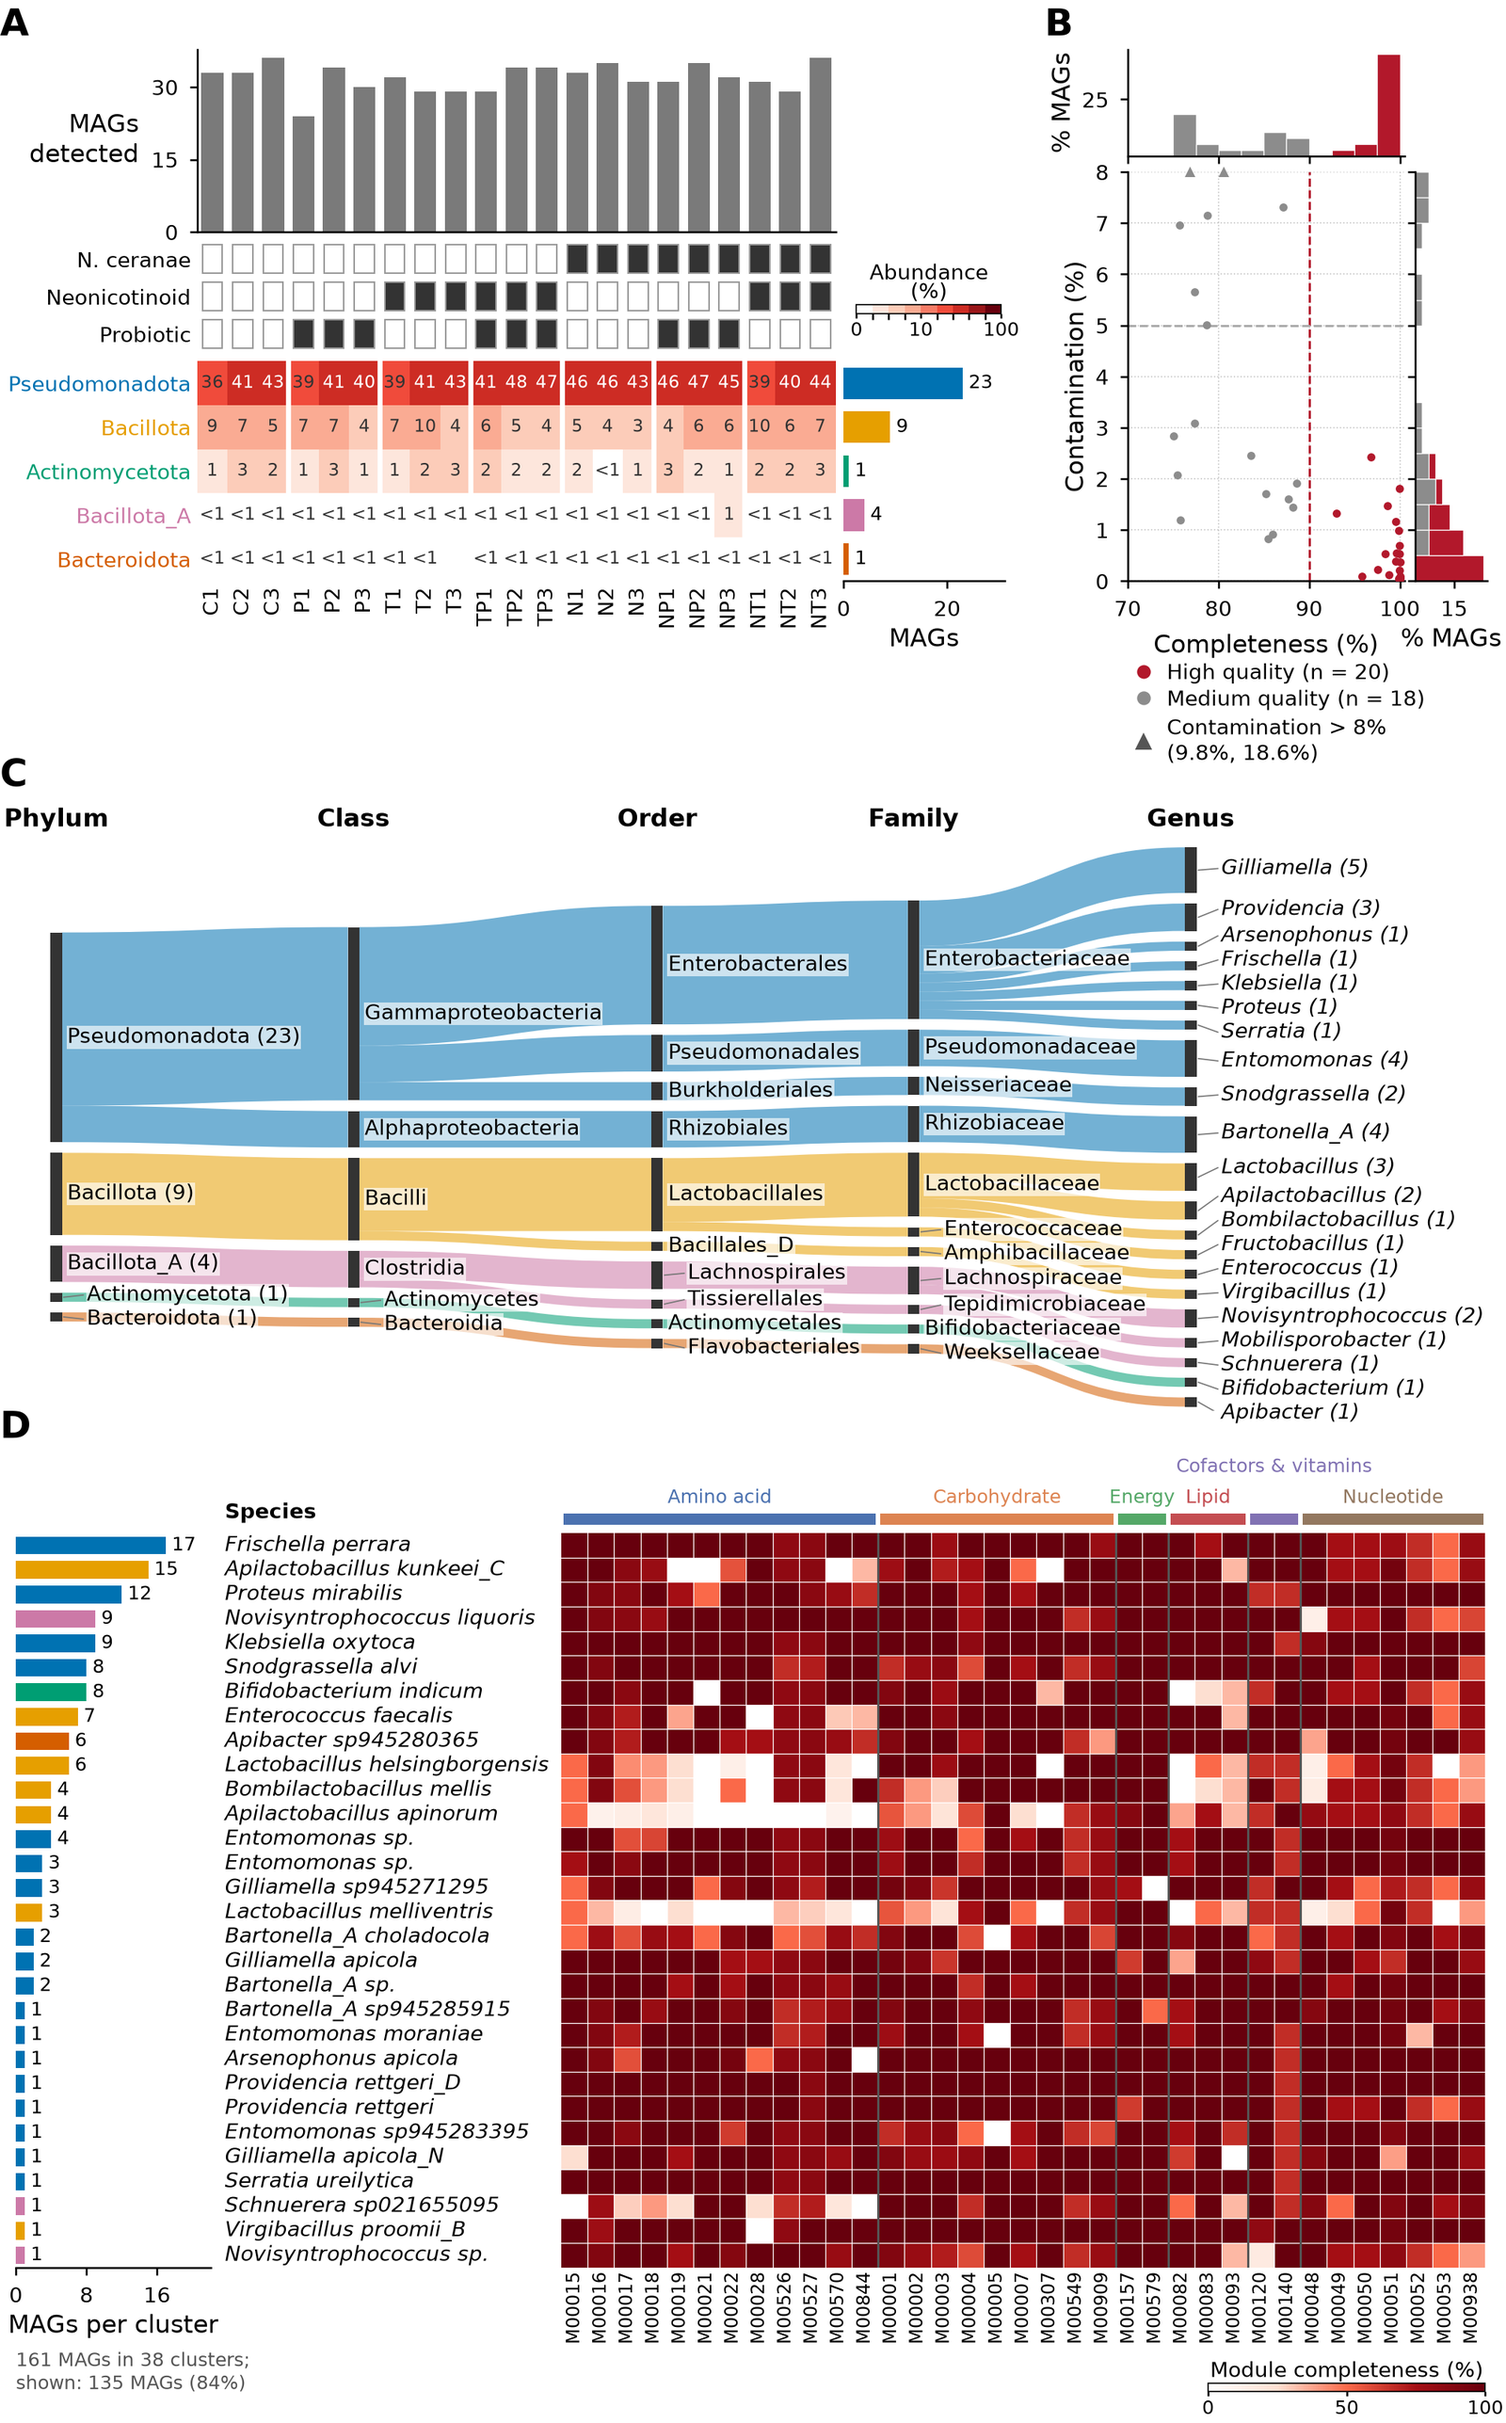
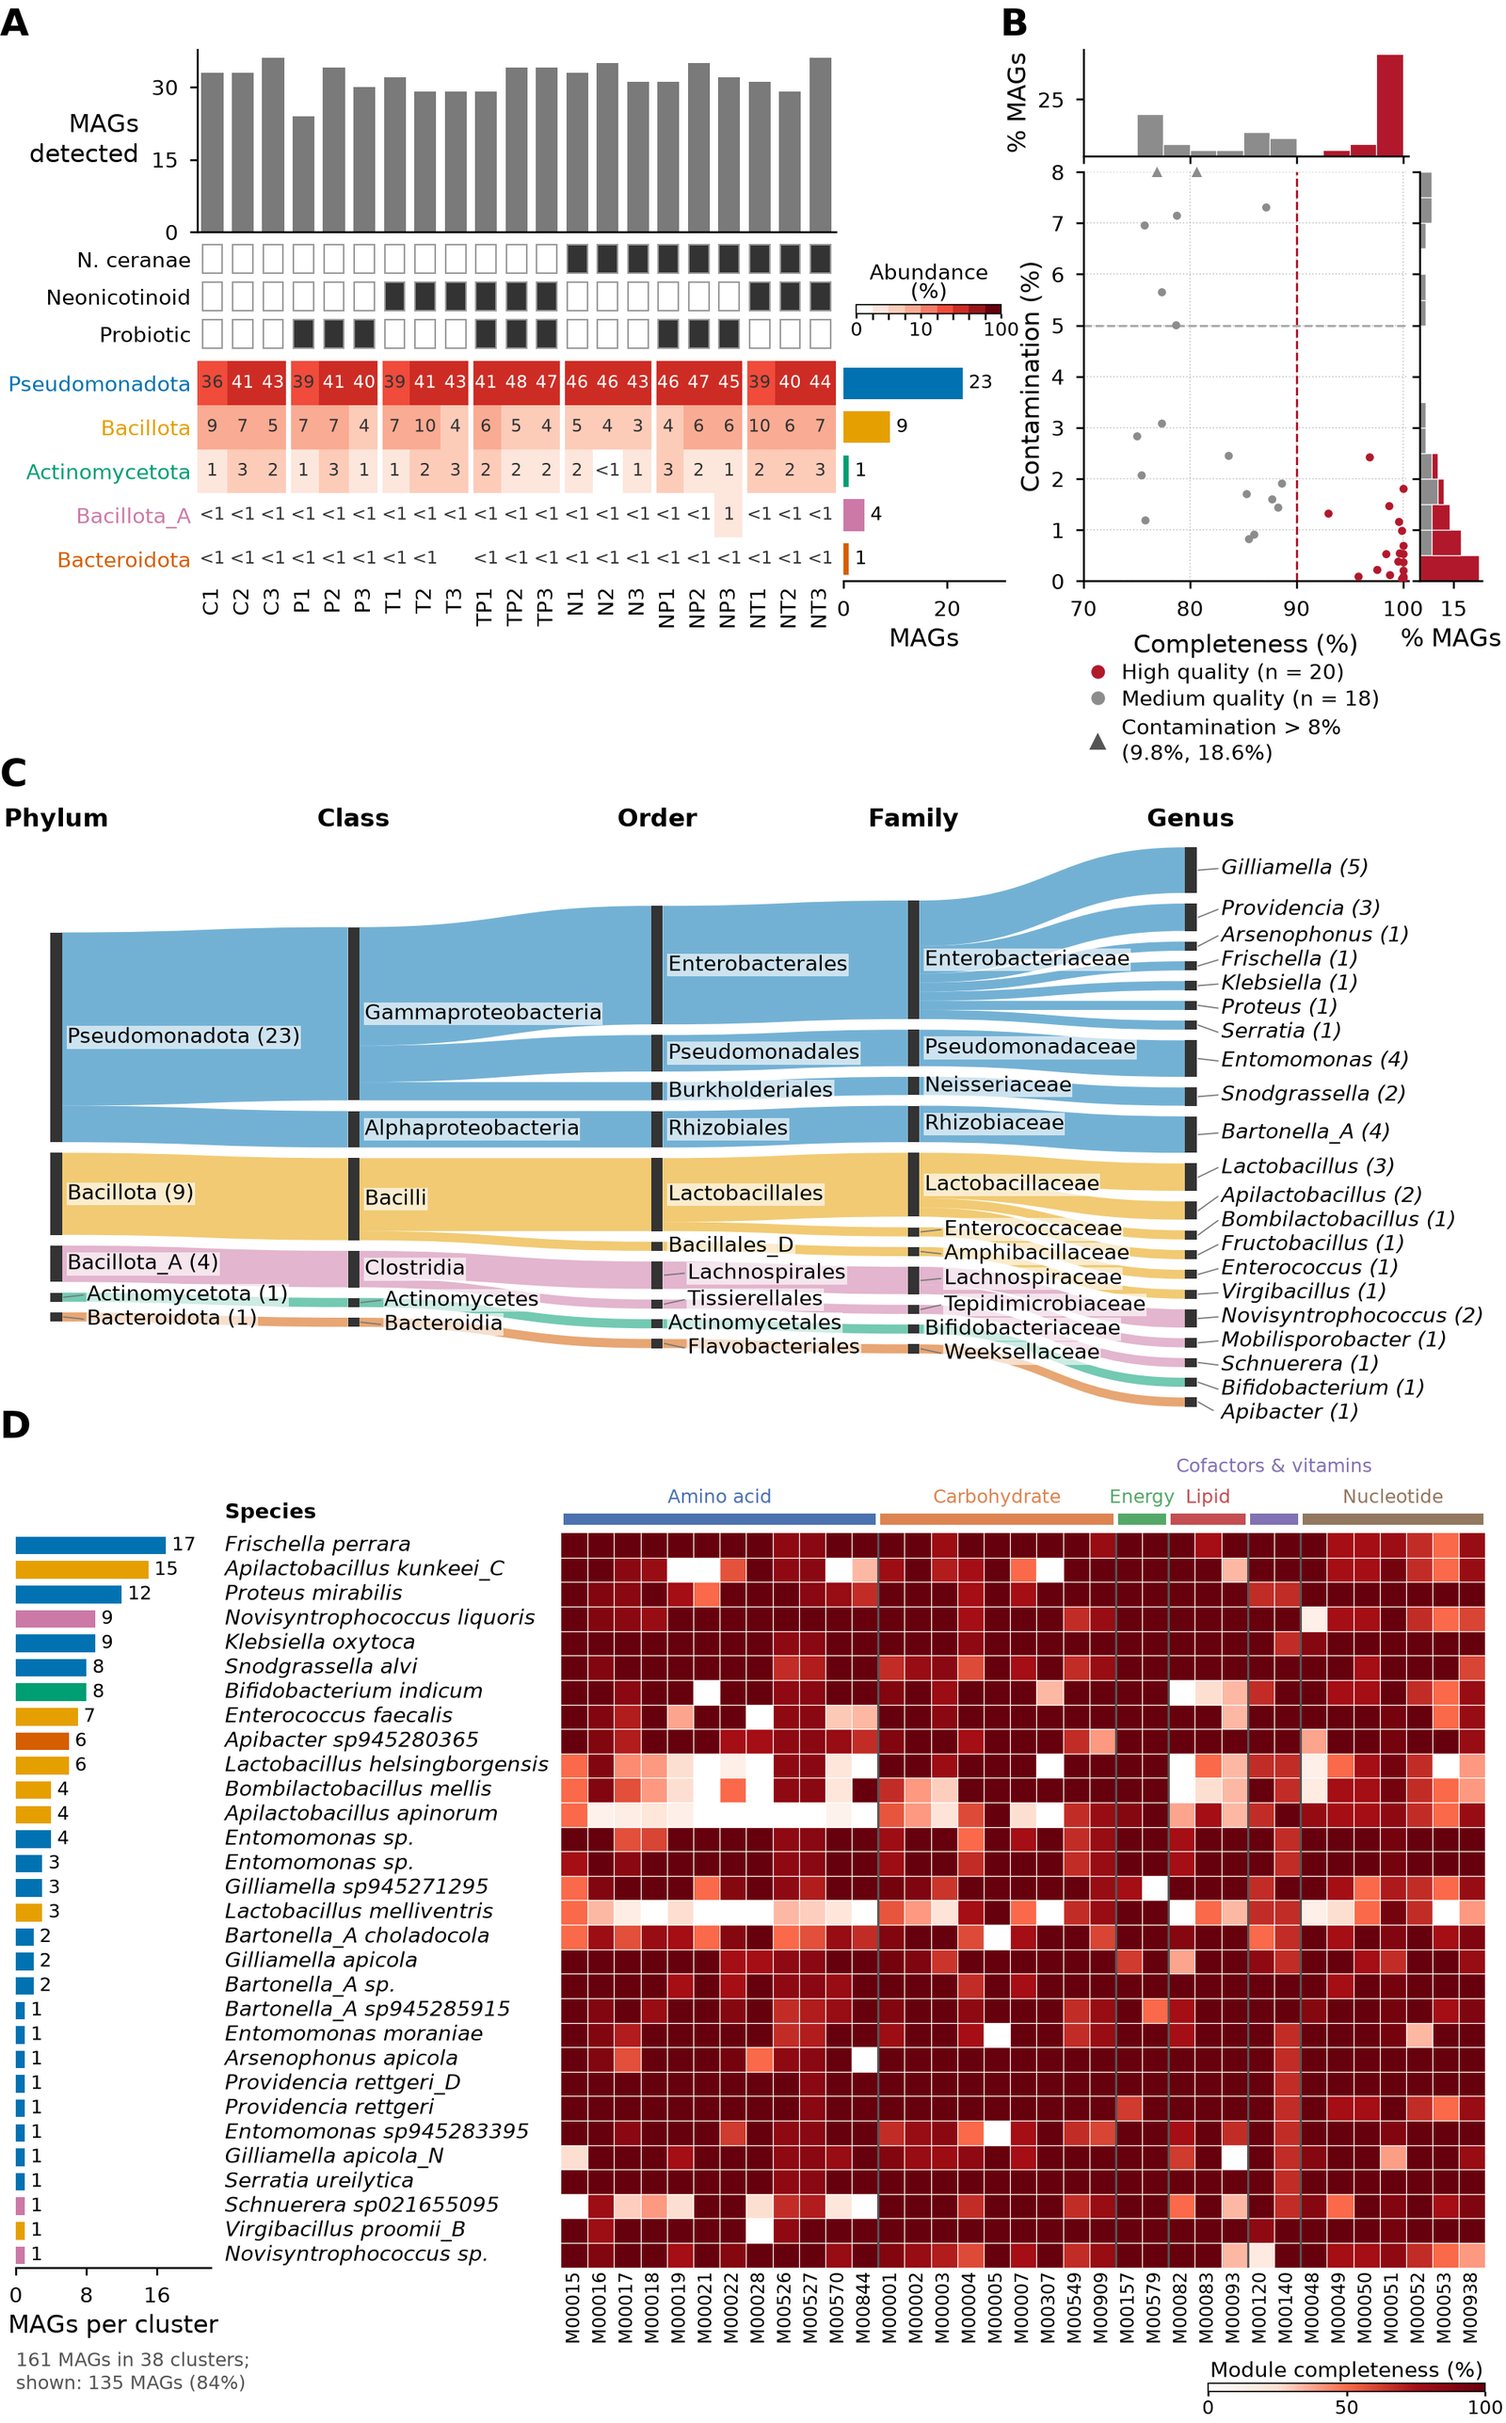
Overview figure: option to leave unclassified MAGs out of the flow panel, wider quality panel
--flow_drop_unclassified leaves out MAGs that are unclassified at the first
flow rank and notes their number below the panel, so large unclassified
fractions no longer squeeze the classified lineages. The quality panel gets
more width: smaller gap to the abundance panel, narrower side histogram.

Changed region(s): [[0.7188, 0.0622, 0.9688, 0.3108], [0.6562, 0.0, 0.8438, 0.2486], [0.9062, 0.0311, 0.9375, 0.0622]]

diff --git a/mags_visualization/overview.py b/mags_visualization/overview.py
@@ -90,6 +90,7 @@ class OverviewOptions:
     max_contamination_axis: float = 8.0
     # taxonomy panel
     flow_ranks: tuple[str, str] = ("phylum", "genus")
+    flow_drop_unclassified: bool = False  # leave out MAGs unclassified at the first flow rank
     # function panel
     top_n: int = 30
     top_modules: int = 35
@@ -523,7 +524,7 @@ class _Quality:
     def draw(self, fig, spec):
         o = self.opt
         q, cat = self.q, self.cat
-        g = spec.subgridspec(2, 2, width_ratios=[4.2, 1.1], height_ratios=[1.1, 4.2], wspace=0.06, hspace=0.06)
+        g = spec.subgridspec(2, 2, width_ratios=[4.2, 0.8], height_ratios=[1.1, 4.2], wspace=0.06, hspace=0.06)
         ax = fig.add_subplot(g[1, 0])
         ax_hx = fig.add_subplot(g[0, 0], sharex=ax)
         ax_hy = fig.add_subplot(g[1, 1], sharey=ax)
@@ -602,6 +603,11 @@ class _Taxonomy:
         self.opt = opt
         a, b = (RANKS.index(r) for r in opt.flow_ranks)
         self.ranks = RANKS[a:b + 1]
+        self.n_hidden = 0
+        if opt.flow_drop_unclassified:
+            unclassified = tax[self.ranks[0]].fillna("Unclassified") == "Unclassified"
+            self.n_hidden = int(unclassified.sum())
+            tax = tax[~unclassified]
         self.columns, self.values, self.children = taxonomy_flow(tax, self.ranks)
         self.colors = colors
         self.color_level = RANKS.index(opt.color_rank) - a  # index into node tuple, may be < 0
@@ -616,13 +622,14 @@ class _Taxonomy:
         # every label needs one text line: many taxa make the panel taller than the bands
         self.label_gap = o.text_h_cm(o.fs_small) * 0.95
         self.H = max(max(self.col_h), max(len(col) for col in self.columns) * self.label_gap)
+        self.note_h = o.text_h_cm(o.fs_small) * 1.5 if self.n_hidden else 0.0
         if self.H > 12:
             print(f"[INFO] The taxonomy panel is {self.H:.0f} cm tall ({max(len(c) for c in self.columns)} taxa "
                   f"at {opt.flow_ranks[1]}); use e.g. --flow_ranks {opt.flow_ranks[0]} "
                   f"{RANKS[max(RANKS.index(opt.flow_ranks[1]) - 1, a)]} for a smaller figure.")
 
     def size_cm(self):
-        return self.opt.width_cm, self.H + self.opt.text_h_cm() * 1.6
+        return self.opt.width_cm, self.H + self.opt.text_h_cm() * 1.6 + self.note_h
 
     def _label(self, node, k):
         name = node[-1]
@@ -705,8 +712,11 @@ class _Taxonomy:
         for k, rank in enumerate(self.ranks):
             ax.text(xs[k] + node_w / 2, -o.text_h_cm() * 0.5, rank.capitalize(), ha="center", va="bottom",
                     fontsize=o.fs, fontweight="bold")
+        if self.n_hidden:
+            ax.text(0, H + self.note_h, f"Not shown: {self.n_hidden} MAGs unclassified at {self.ranks[0]} level",
+                    ha="left", va="bottom", fontsize=o.fs_small, color="#555555")
         ax.set_xlim(0, width)  # axis units are cm
-        ax.set_ylim(H + 0.05, -o.text_h_cm() * 1.6)
+        ax.set_ylim(H + 0.05 + self.note_h, -o.text_h_cm() * 1.6)
         ax.axis("off")
         return ax
 
@@ -975,8 +985,9 @@ def _build(objs, rows, heights, gaps, margins, opt, sides):
         axes = []
         if len(row) == 2:
             wa, _ = objs[row[0]].size_cm()
-            wb = inner_w - wa - 1.3
-            sub = spec.subgridspec(1, 3, width_ratios=[wa, 1.3, max(wb, 4.0)], wspace=0.0)
+            gap = 0.8
+            wb = inner_w - wa - gap
+            sub = spec.subgridspec(1, 3, width_ratios=[wa, gap, max(wb, 4.0)], wspace=0.0)
             specs = [sub[0], sub[2]]
         else:
             specs = [spec]

diff --git a/mags_visualization/main.py b/mags_visualization/main.py
@@ -346,6 +346,9 @@ def _add_quality_args(g):
 def _add_flow_args(g):
     g.add_argument("--flow_ranks", nargs=2, choices=TAX_LEVELS, default=["phylum", "genus"],
                    metavar=("FROM", "TO"), help="First and last rank of the flow diagram")
+    g.add_argument("--flow_drop_unclassified", action="store_true",
+                   help="Leave out MAGs that are unclassified at the first rank of the flow diagram "
+                        "(their number is given below the panel)")
 
 
 # ---- Parser builder - subcommands ---- #
@@ -877,6 +880,7 @@ def _overview_options(args, panels, metadata=None):
         mq_contamination=getattr(args, "mq_contamination", None),
         max_contamination_axis=get("max_contamination_axis", fallback=default.max_contamination_axis),
         flow_ranks=tuple(get("flow_ranks", fallback=default.flow_ranks)),
+        flow_drop_unclassified=bool(getattr(args, "flow_drop_unclassified", False)),
         top_n=get("top_n", "n", fallback=default.top_n),
         top_modules=get("top_modules", fallback=default.top_modules),
         module_mode=mode if mode in ("mean", "variance") else default.module_mode,

diff --git a/docs/cli.md b/docs/cli.md
@@ -421,6 +421,7 @@ usage: mags-visualization taxa-sankey [-h] --gtdb GTDB_FILE
                                       [--width_cm WIDTH_CM]
                                       [--color_rank {domain,phylum,class,order,family,genus,species}]
                                       [--dpi DPI] [--flow_ranks FROM TO]
+                                      [--flow_drop_unclassified]
 
 options:
   -h, --help            show this help message and exit
@@ -458,6 +459,10 @@ overview style (--style overview; png, pdf or svg):
   --dpi DPI             Resolution of PNG output (default: 300)
   --flow_ranks FROM TO  First and last rank of the flow diagram (default:
                         ['phylum', 'genus'])
+  --flow_drop_unclassified
+                        Leave out MAGs that are unclassified at the first rank
+                        of the flow diagram (their number is given below the
+                        panel) (default: False)
 ```
 
 ## overview-figure
@@ -488,6 +493,7 @@ usage: mags-visualization overview-figure [-h] --gtdb GTDB_FILE
                                           [--mq_contamination MQ_CONTAMINATION]
                                           [--max_contamination_axis MAX_CONTAMINATION_AXIS]
                                           [--flow_ranks FROM TO]
+                                          [--flow_drop_unclassified]
                                           [--top_n TOP_N]
                                           [--top_modules TOP_MODULES]
                                           [--module_mode {mean,variance}]
@@ -578,6 +584,10 @@ quality panel:
 taxonomy panel:
   --flow_ranks FROM TO  First and last rank of the flow diagram (default:
                         ['phylum', 'genus'])
+  --flow_drop_unclassified
+                        Leave out MAGs that are unclassified at the first rank
+                        of the flow diagram (their number is given below the
+                        panel) (default: False)
 
 function panel:
   --top_n TOP_N         Number of largest dRep clusters shown (default: 30)
